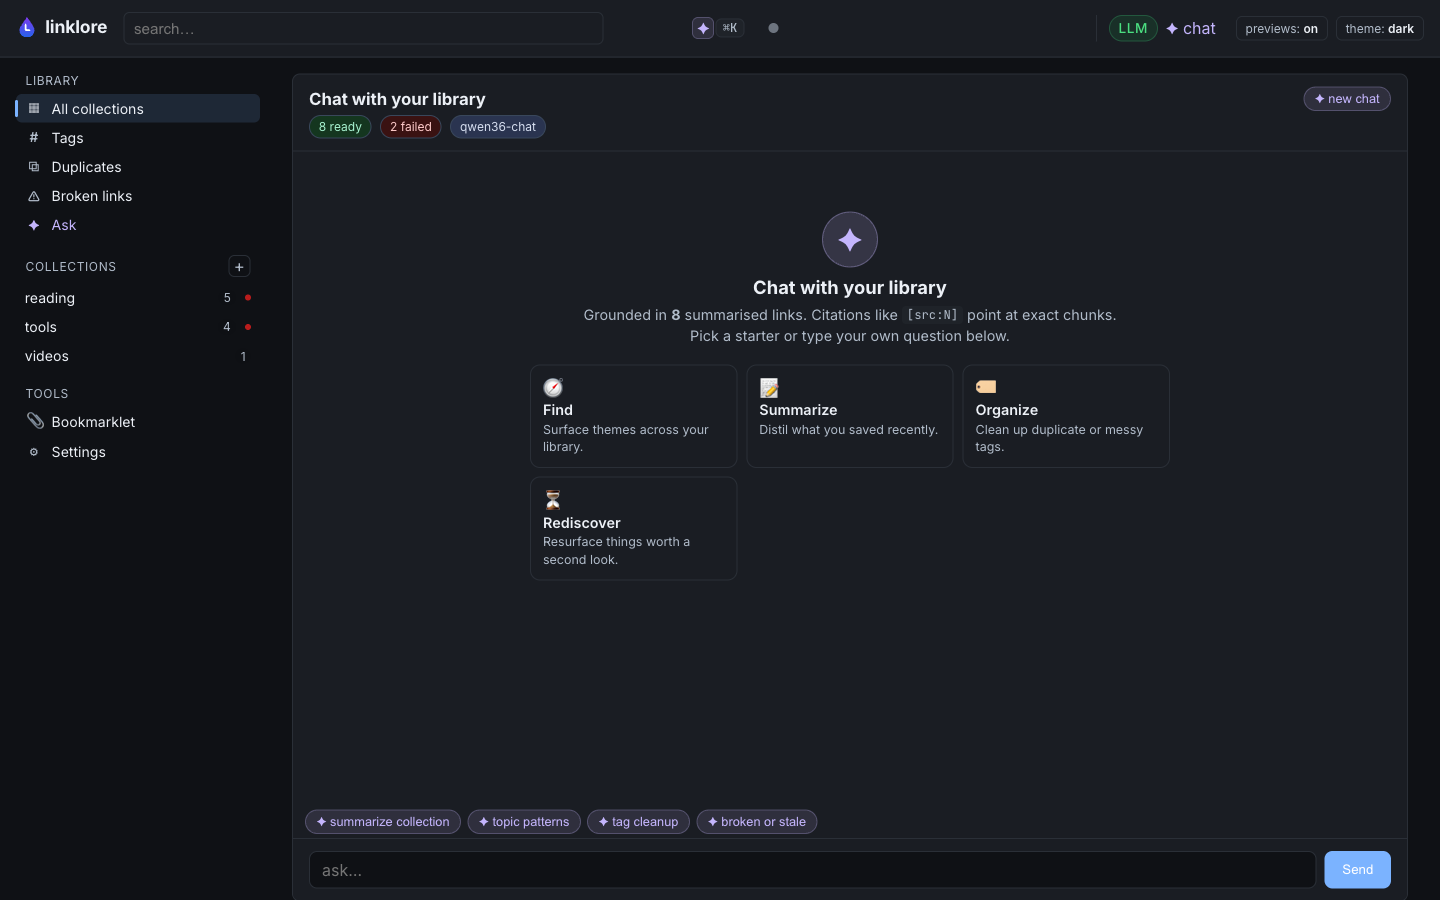
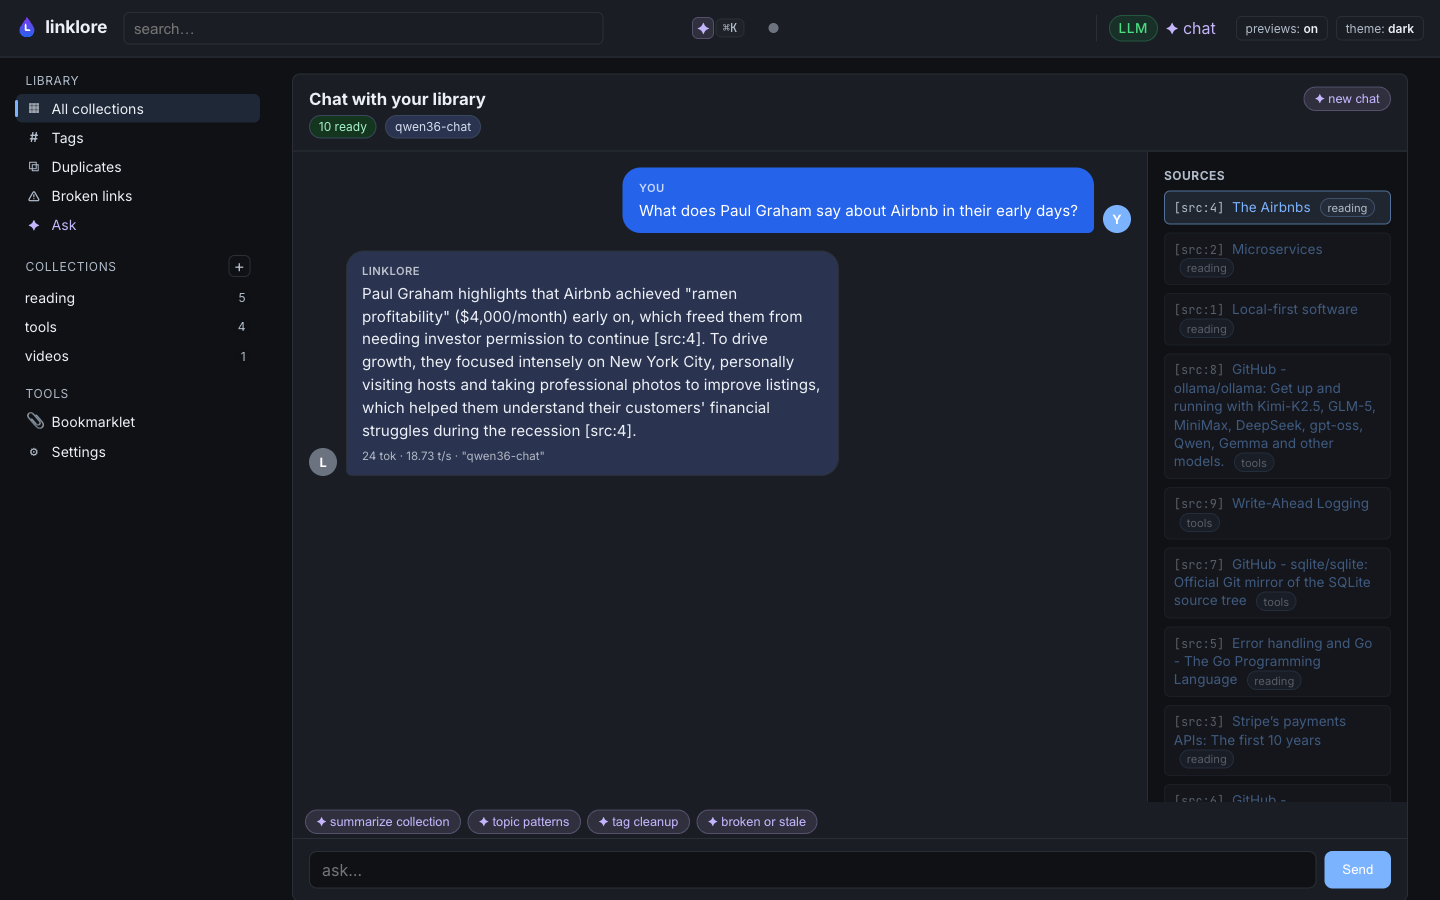
docs(screenshots): re-shoot from a clean 10/10 demo + add palette panel
Two of the previous seed URLs 404'd on the worker (go.dev/blog
moved 'inside-the-go-playground'; htmx repo migrated from htmx-org/
to bigskysoftware/), so the screenshots showed "1 failed" badges
on each affected collection — bad first impression for visitors.

- scripts/seed-demo.sh: replace the dead URLs with current,
  reliably-extractable ones (go.dev/blog/error-handling-and-go,
  bigskysoftware/htmx).
- docs/screenshots/01-home.png: 5/4/1 collections, no failed
  badges anywhere.
- docs/screenshots/02-chat.png: real Q+A captured. The model
  answers a question about Paul Graham's Airbnb essay with two
  inline [src:4] citations; the Sources rail on the right shows
  the cited source highlighted and the retrieved-but-not-used
  ones dimmed — the dim/cited distinction is now visible in the
  hero image.
- docs/screenshots/04-drawer.png: drawer over the new richer
  collection list.
- docs/screenshots/05-palette.png: NEW. ⌘K open with "read"
  typed in; fuzzy match across links + a collection nav entry.
- README screenshot table now 2x2 (palette gets its own cell)
  and copy points at the citation behavior + dim/cited rail.

Also picks up trailing-newline / whitespace cleanups across a
few internal/ files that the `make check` formatter applied
during this session — unrelated but quiet.

diff --git a/internal/tags/tags_test.go b/internal/tags/tags_test.go
@@ -7,22 +7,22 @@ import (
 
 func TestSlugify(t *testing.T) {
 	cases := map[string]string{
-		"":                    "",
-		"  ":                  "",
-		"!!":                  "",
-		"Go":                  "go",
-		"  Hello, World!  ":   "hello-world",
-		"Machine Learning":    "machine-learning",
+		"":                        "",
+		"  ":                      "",
+		"!!":                      "",
+		"Go":                      "go",
+		"  Hello, World!  ":       "hello-world",
+		"Machine Learning":        "machine-learning",
 		"Artificial-Intelligence": "artificial-intelligence",
-		"AI/ML":               "ai-ml",
-		"Tags":                "tag",   // trailing 's' lemma
-		"Bus":                 "bus",   // length ≤3 keeps the s
-		"databases":           "database",
-		"  multi   space  ":   "multi-space",
-		"NLP":                 "nlp",
-		"©™ Foo":              "foo",
-		"3D":                  "3d",
-		"AI ":                 "ai",
+		"AI/ML":                   "ai-ml",
+		"Tags":                    "tag", // trailing 's' lemma
+		"Bus":                     "bus", // length ≤3 keeps the s
+		"databases":               "database",
+		"  multi   space  ":       "multi-space",
+		"NLP":                     "nlp",
+		"©™ Foo":                  "foo",
+		"3D":                      "3d",
+		"AI ":                     "ai",
 	}
 	for in, want := range cases {
 		if got := Slugify(in); got != want {

diff --git a/internal/server/server_test.go b/internal/server/server_test.go
@@ -876,11 +876,11 @@ func TestAddLink_OOB_updatesCountersAndEmptyState(t *testing.T) {
 		t.Fatalf("status=%d body=%s", code, body)
 	}
 	for _, want := range []string{
-		`id="link-`,                              // the freshly inserted row
-		`id="collection-stats-`,                  // OOB stats wrapper
-		`hx-swap-oob="outerHTML"`,                // OOB attribute
-		`1 link`,                                 // updated counter
-		`id="links-empty"`,                       // empty-state OOB
+		`id="link-`,               // the freshly inserted row
+		`id="collection-stats-`,   // OOB stats wrapper
+		`hx-swap-oob="outerHTML"`, // OOB attribute
+		`1 link`,                  // updated counter
+		`id="links-empty"`,        // empty-state OOB
 	} {
 		if !strings.Contains(body, want) {
 			t.Errorf("missing %q in OOB response: %s", want, body)

diff --git a/internal/urlnorm/urlnorm.go b/internal/urlnorm/urlnorm.go
@@ -18,20 +18,20 @@ var trackerPrefixes = []string{
 
 // trackerExact are exact (case-insensitive) querystring keys to drop.
 var trackerExact = map[string]struct{}{
-	"fbclid":      {},
-	"gclid":       {},
-	"yclid":       {},
-	"msclkid":     {},
-	"dclid":       {},
-	"igshid":      {},
-	"ref":         {},
-	"ref_src":     {},
-	"ref_url":     {},
-	"source":      {},
-	"si":          {},
-	"feature":     {},
-	"vero_id":     {},
-	"vero_conv":   {},
+	"fbclid":           {},
+	"gclid":            {},
+	"yclid":            {},
+	"msclkid":          {},
+	"dclid":            {},
+	"igshid":           {},
+	"ref":              {},
+	"ref_src":          {},
+	"ref_url":          {},
+	"source":           {},
+	"si":               {},
+	"feature":          {},
+	"vero_id":          {},
+	"vero_conv":        {},
 	"_branch_match_id": {},
 }
 

diff --git a/internal/netscape/netscape.go b/internal/netscape/netscape.go
@@ -77,13 +77,13 @@ func Parse(r io.Reader) ([]Bookmark, error) {
 //
 // goquery's HTML parser nests Netscape's malformed tag soup as:
 //
-//   <dt>           ← folder DT, contains <h3>"Folder"</h3>
-//     <dl>         ← inner DL
-//       <dt>       ← link DT
-//         <a/>     ← the link itself
-//       </dt>
-//     </dl>
-//   </dt>
+//	<dt>           ← folder DT, contains <h3>"Folder"</h3>
+//	  <dl>         ← inner DL
+//	    <dt>       ← link DT
+//	      <a/>     ← the link itself
+//	    </dt>
+//	  </dl>
+//	</dt>
 //
 // So for each <a>, walk up Parent (DT) → Parent (DL) → Parent (folder DT
 // or body), and grab the <h3> child of each "folder DT" we encounter.

diff --git a/internal/extract/extract_test.go b/internal/extract/extract_test.go
@@ -176,8 +176,8 @@ func TestExtract_picksLazyLoadAndSrcsetImages(t *testing.T) {
 	all := append([]string{a.ImageURL}, a.ExtraImages...)
 
 	for _, want := range []string{
-		"https://cdn.example.com/lazy.jpg",            // data-src wins over data: src
-		"https://cdn.example.com/hero-2x.jpg",         // <picture><source srcset> highest width
+		"https://cdn.example.com/lazy.jpg",                 // data-src wins over data: src
+		"https://cdn.example.com/hero-2x.jpg",              // <picture><source srcset> highest width
 		"https://news.example.com/article/inline-1440.jpg", // <img srcset> resolved + highest width
 	} {
 		found := false

diff --git a/internal/lang/lang_test.go b/internal/lang/lang_test.go
@@ -7,10 +7,10 @@ import (
 
 func TestDetect_basic(t *testing.T) {
 	cases := map[string]string{
-		"":                                  "",
-		"   ":                               "",
+		"":    "",
+		"   ": "",
 		"This is a clearly English passage about software engineering and ownership semantics.": "en",
-		"Questo è un testo chiaramente in italiano che parla di programmazione e di tipi.":     "it",
+		"Questo è un testo chiaramente in italiano che parla di programmazione e di tipi.":      "it",
 		"Ceci est un passage clairement en français à propos de programmation et de types.":     "fr",
 	}
 	for in, want := range cases {

diff --git a/internal/worker/worker.go b/internal/worker/worker.go
@@ -58,9 +58,9 @@ type Worker struct {
 	// unhealthy and skip summary/embed steps until the next probe
 	// succeeds. This keeps fetch+extract working as a plain bookmark
 	// pipeline when the LLM gateway is down or not configured.
-	healthMu     sync.RWMutex
-	llmHealthy   bool
-	lastHealthAt time.Time
+	healthMu      sync.RWMutex
+	llmHealthy    bool
+	lastHealthAt  time.Time
 	lastHealthErr error
 }
 
@@ -395,4 +395,3 @@ func (w *Worker) ProcessOne(ctx context.Context, id int64) error {
 	}
 	return nil
 }
-

diff --git a/internal/storage/storage.go b/internal/storage/storage.go
@@ -186,10 +186,10 @@ type Tag struct {
 }
 
 const (
-	StatusPending     = "pending"
-	StatusFetched     = "fetched"
-	StatusSummarized  = "summarized"
-	StatusFailed      = "failed"
+	StatusPending    = "pending"
+	StatusFetched    = "fetched"
+	StatusSummarized = "summarized"
+	StatusFailed     = "failed"
 
 	TagSourceAuto = "auto"
 	TagSourceUser = "user"

diff --git a/internal/server/server.go b/internal/server/server.go
@@ -1689,8 +1689,8 @@ func (s *Server) handleDiscoverFeed(w http.ResponseWriter, r *http.Request) {
 	}
 	updated, _ := s.store.GetCollectionBySlugByID(r.Context(), col.ID)
 	s.renderFragment(w, "collection_feed", map[string]any{
-		"Collection":     updated,
-		"DiscoverdMsg":   feedURL,
+		"Collection":   updated,
+		"DiscoverdMsg": feedURL,
 	})
 }
 

diff --git a/internal/extract/extract.go b/internal/extract/extract.go
@@ -425,4 +425,3 @@ func collapseBlankLines(s string) string {
 	}
 	return strings.Join(out, "\n")
 }
-

diff --git a/README.md b/README.md
@@ -58,11 +58,12 @@ the migration.
 
 <table>
 <tr>
-<td width="50%"><strong>Collection (list view)</strong> — favicons, summaries, type chips, density toggles<br><img src="docs/screenshots/03-collection.png" alt="Collection list view"></td>
-<td width="50%"><strong>RAG chat</strong> — Stella-style starter tiles, grounded in your library<br><img src="docs/screenshots/02-chat.png" alt="Chat welcome"></td>
+<td width="50%"><strong>Collection (list view)</strong><br>Favicons, LLM summaries, type chips, density toggles, four view modes.<br><img src="docs/screenshots/03-collection.png" alt="Collection list view"></td>
+<td width="50%"><strong>RAG chat with citations</strong><br>Streaming answer, <code>[src:4]</code> tokens link back to the chunk. Sources rail on the right dims rows that were retrieved but not cited.<br><img src="docs/screenshots/02-chat.png" alt="RAG chat answering with citations"></td>
 </tr>
 <tr>
-<td colspan="2"><strong>Reader drawer</strong> — slide-in preview with size / width / theme toggles and a TL;DR card<br><img src="docs/screenshots/04-drawer.png" alt="Reader drawer"></td>
+<td width="50%"><strong>Reader drawer</strong><br>Slide-in preview with size / width / theme controls + a TL;DR card.<br><img src="docs/screenshots/04-drawer.png" alt="Reader drawer"></td>
+<td width="50%"><strong>⌘K command palette</strong><br>Fuzzy-search every link, every collection, every page. <code>j/k</code> walks rows; <code>↵</code> opens.<br><img src="docs/screenshots/05-palette.png" alt="Command palette"></td>
 </tr>
 </table>
 
